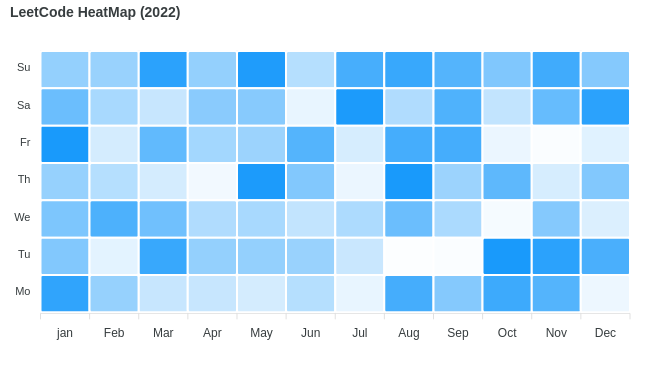
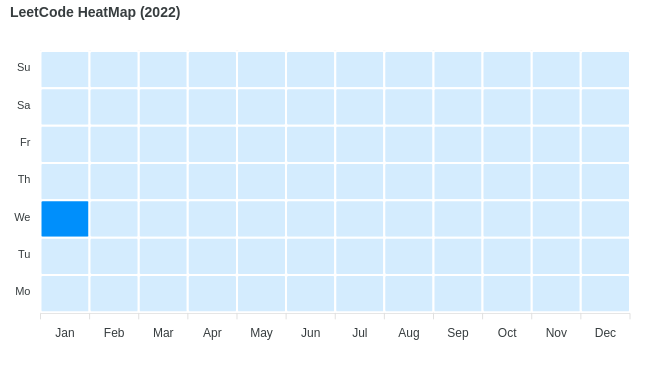
first working example

diff --git a/chart.html b/chart.html
@@ -4,7 +4,7 @@
     <meta charset="UTF-8" />
     <meta name="viewport" content="width=device-width, initial-scale=1.0" />
     <meta http-equiv="X-UA-Compatible" content="ie=edge" />
-    <title>Simple HeatMap</title>
+    <title>Simple HeatMap apexcharts</title>
     <style>
       #chart {
         max-width: 650px;
@@ -28,111 +28,48 @@
     </script>
 
     <script src="https://cdn.jsdelivr.net/npm/apexcharts"></script>
-
-    <script>
-      // Replace Math.random() with a pseudo-random number generator to get reproducible results in e2e tests
-      // Based on https://gist.github.com/blixt/f17b47c62508be59987b
-      var _seed = 42;
-      Math.random = function () {
-        _seed = (_seed * 16807) % 2147483647;
-        return (_seed - 1) / 2147483646;
-      };
-    </script>
-
-    <script>
-      function generateData(count, yrange) {
-        var i = 0;
-        var series = [];
-        const dates = [
-          "jan",
-          "Feb",
-          "Mar",
-          "Apr",
-          "May",
-          "Jun",
-          "Jul",
-          "Aug",
-          "Sep",
-          "Oct",
-          "Nov",
-          "Dec",
-        ];
-        while (i < count) {
-          var x = dates[i];
-          var y =
-            Math.floor(Math.random() * (yrange.max - yrange.min + 1)) +
-            yrange.min;
-
-          series.push({
-            x: x,
-            y: y,
-          });
-          i++;
-        }
-        return series;
-      }
-    </script>
   </head>
 
   <body>
     <div id="chart"></div>
 
     <script>
-      console.log(generateData(12, { min: 0, max: 90 }));
 
-      var options = {
+    const json = 
+    const contribution = JSON.parse(json);
+
+      const options = {
         animations: {
           enabled: false,
         },
         series: [
           {
             name: "Mo",
-            data: generateData(12, {
-              min: 0,
-              max: 90,
-            }),
+            data: contribution[0],
           },
           {
             name: "Tu",
-            data: generateData(12, {
-              min: 0,
-              max: 90,
-            }),
+            data: contribution[1],
           },
           {
             name: "We",
-            data: generateData(12, {
-              min: 0,
-              max: 90,
-            }),
+            data: contribution[2],
           },
           {
             name: "Th",
-            data: generateData(12, {
-              min: 0,
-              max: 90,
-            }),
+            data: contribution[3],
           },
           {
             name: "Fr",
-            data: generateData(12, {
-              min: 0,
-              max: 90,
-            }),
+            data: contribution[4],
           },
           {
             name: "Sa",
-            data: generateData(12, {
-              min: 0,
-              max: 90,
-            }),
+            data: contribution[5],
           },
           {
             name: "Su",
-            data: generateData(12, {
-              min: 0,
-              max: 90,
-            }),
+            data: contribution[6],
           },
         ],
         chart: {
@@ -150,7 +87,7 @@
         },
       };
 
-      var chart = new ApexCharts(document.querySelector("#chart"), options);
+      const chart = new ApexCharts(document.querySelector("#chart"), options);
       chart.render();
     </script>
   </body>

diff --git a/index.js b/index.js
@@ -6,23 +6,53 @@ const commitsPromise = gitToJs("./");
 const chart = fs.readFileSync("./chart.html", "utf8");
 
 commitsPromise.then((commits) => {
-  //console.log(JSON.stringify(commits, null, 2))
+  //console.log(JSON.stringify(commits, null, 2));
 
   const questions = commits
     .filter((item) => item.message.match("Time"))
-    .map((item) => item.date.split(" ").slice(1, 4).join("/"));
+    .map((item) => item.date.split(" ").slice(0, 4).join("/"));
 
-  console.log(questions);
+  const months = [
+    "Jan",
+    "Feb",
+    "Mar",
+    "Apr",
+    "May",
+    "Jun",
+    "Jul",
+    "Aug",
+    "Sep",
+    "Oct",
+    "Nov",
+    "Dec",
+  ];
+  const days = ["Mo", "Tu", "We", "Th", "Fr", "Sa", "Su"];
 
-  (async () => {
+  const contribution = [];
+  for (let day of days) {
+    const data = [];
+    for (let month of months) {
+      const count =
+        questions.filter((item) => item.match(day) && item.match(month))
+          .length + 1;
+      data.push({ x: month, y: count });
+    }
+    contribution.push(data);
+  }
+
+  const json = JSON.stringify(contribution);
+  updateFile = chart.replace(/^.*const json.*$/gm, `const json = '${json}'`);
+
+  const getImage = async () => {
     const browser = await puppeteer.launch();
     const page = await browser.newPage();
-    await page.setContent(chart);
+    await page.setContent(updateFile);
     console.log(await page.title());
 
-    await page.waitForSelector('#chart');
-    const element = await page.$('#chart'); 
+    await page.waitForSelector("#chart");
+    const element = await page.$("#chart");
     await element.screenshot({ path: "heatmap.png" });
     await browser.close();
-  })();
+  };
+  getImage();
 });
